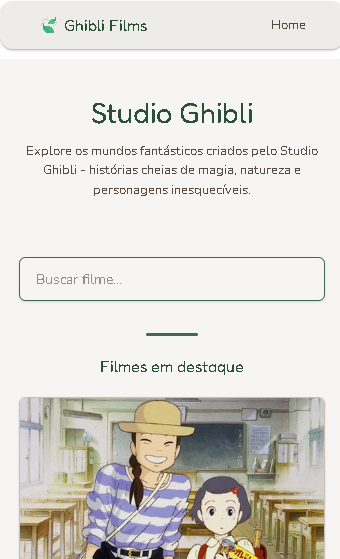
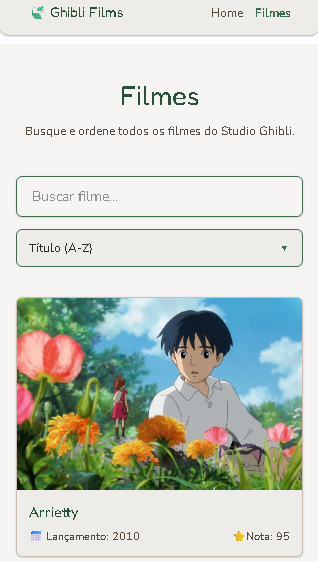
docs: atualiza RADME e imagem de preview

diff --git a/README.md b/README.md
@@ -1,6 +1,6 @@
 # 🎬 Visualizador de Filmes Ghibli
 
-Catálogo interativo dos filmes do Studio Ghibli, consumindo a [Ghibli API](https://ghibliapi.vercel.app/). Desenvolvido como projeto de estudo, aplicando conceitos de rotas, consumo de API, estados assíncronos e estilização com Tailwind CSS v4.
+Catálogo interativo dos filmes do Studio Ghibli, consumindo a [Ghibli API](https://ghibliapi.vercel.app/). Desenvolvido como projeto de estudo, aplicando conceitos de rotas, hooks customizados, consumo de API, estados assíncronos e estilização com Tailwind CSS v4.
 
 🔗 **[Acesse o projeto ao vivo](https://maiconcasagrandadev.github.io/visualizador-filmes-ghibli/)**
 
@@ -10,39 +10,47 @@ Catálogo interativo dos filmes do Studio Ghibli, consumindo a [Ghibli API](http
 
 ## ✨ Funcionalidades
 
-- Listagem dos filmes do Studio Ghibli em um grid responsivo
-- Página de detalhes individual para cada filme
+- Home com apresentação e os 3 filmes mais bem avaliados em destaque
+- Página **Filmes** com a lista completa, busca por título e ordenação (título, nota ou ano)
+- Página de detalhes com sinopse, data, nota, duração e ficha técnica (diretor e produtor)
 - Loading state com skeleton animation
-- Tratamento de erros de requisição
+- Tratamento de erros de requisição e mensagem para buscas sem resultado
 - Tema visual customizado (cores e tipografia inspiradas no universo Ghibli)
+- Navegação com link ativo no Header e retorno ao topo ao trocar de página
 - Totalmente responsivo (mobile, tablet e desktop)
 
 ## 🛠 Tecnologias
 
 - **React** + **TypeScript**
-- **Vite** — build tool
-- **React Router DOM** — roteamento (rotas aninhadas com `Outlet`)
-- **Tailwind CSS v4** — estilização utility-first, com tema customizado via `@theme`
-- **Fredoka** e **Nunito** — tipografia 
-- **GitHub Pages** — deploy
+- **Vite**: build tool
+- **React Router DOM**: rotas aninhadas com `Outlet`, `NavLink` e `useParams`
+- **Tailwind CSS v4**: estilização utility-first, com tema customizado via `@theme`
+- **Hooks customizados**: `useFilms` e `useFilm` isolam a lógica de fetch
+- **Fredoka** e **Nunito**: tipografia
+- **GitHub Pages**: deploy, com redirecionamento via `404.html` para as rotas da SPA funcionarem
 
 ## 🗂 Estrutura do projeto
 
 ```text
 src/
-components/
-Header/
-Footer/
-pages/
-Layout/ # estrutura compartilhada (Header + Outlet + Footer)
-Home/ # listagem dos filmes
-FilmDetails/ # detalhes de um filme específico
-styles/
-globals.css # tema (cores, fontes)
-types/
-Film.ts # tipagem dos dados da API
+├── components/
+│   ├── FilmCard/       # card reutilizável de filme
+│   ├── Header/
+│   ├── Footer/
+│   └── ScrollToTop/    # volta ao topo ao trocar de rota
+├── hooks/
+│   ├── useFilms.ts     # busca a lista de filmes
+│   └── useFilm.ts      # busca um filme por id
+├── pages/
+│   ├── Layout/         # estrutura compartilhada (Header + Outlet + Footer)
+│   ├── Home/           # apresentação e filmes em destaque
+│   ├── Films/          # busca, ordenação e lista completa
+│   └── FilmDetails/    # detalhes de um filme específico
+├── styles/
+│   └── globals.css     # tema (cores, fontes)
+└── types/
+    └── Film.ts         # tipagem dos dados da API
 ```
-
 
 ## 🚀 Rodando localmente
 
@@ -68,6 +76,10 @@ O projeto é publicado no GitHub Pages via `gh-pages`:
 npm run deploy
 ```
 
+## 🔜 Próximos passos
+
+- Favoritos salvos no `localStorage`
+- Dark mode
 
 ## 📄 Observação
 
